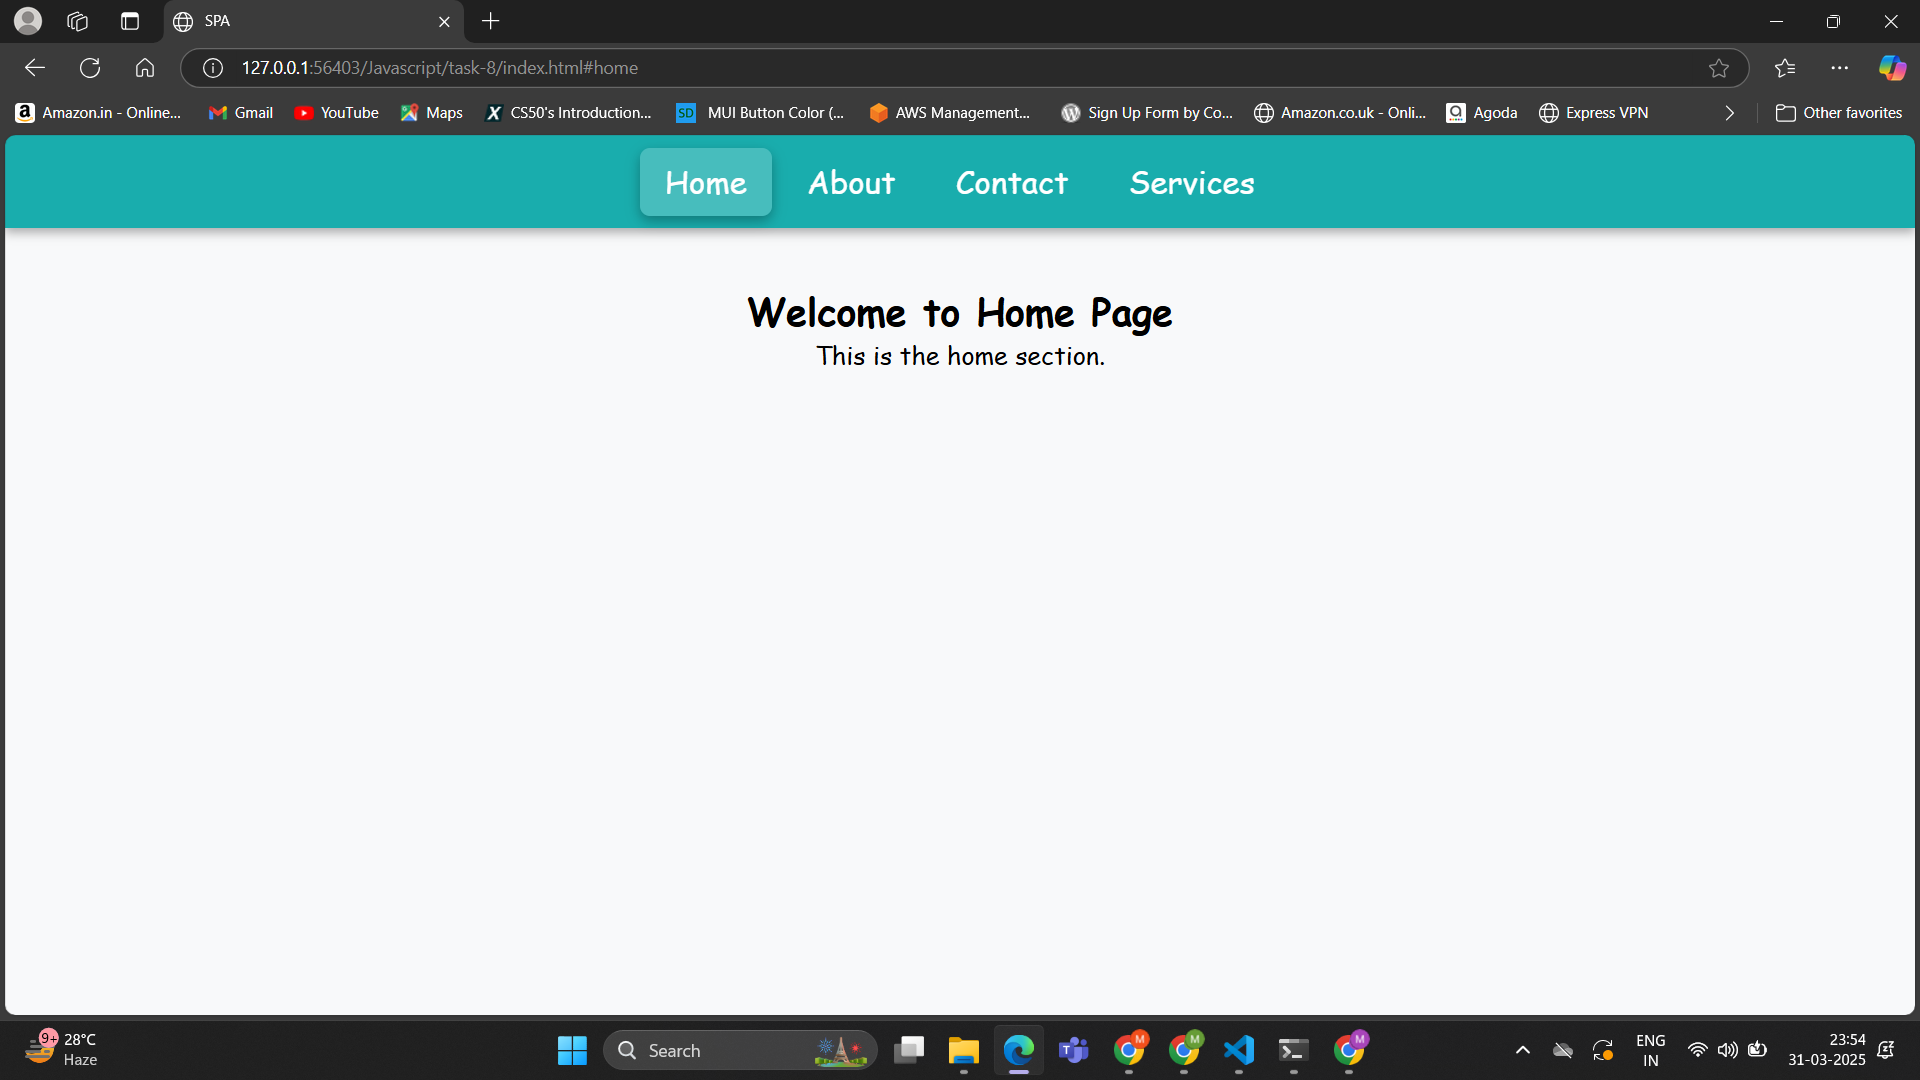
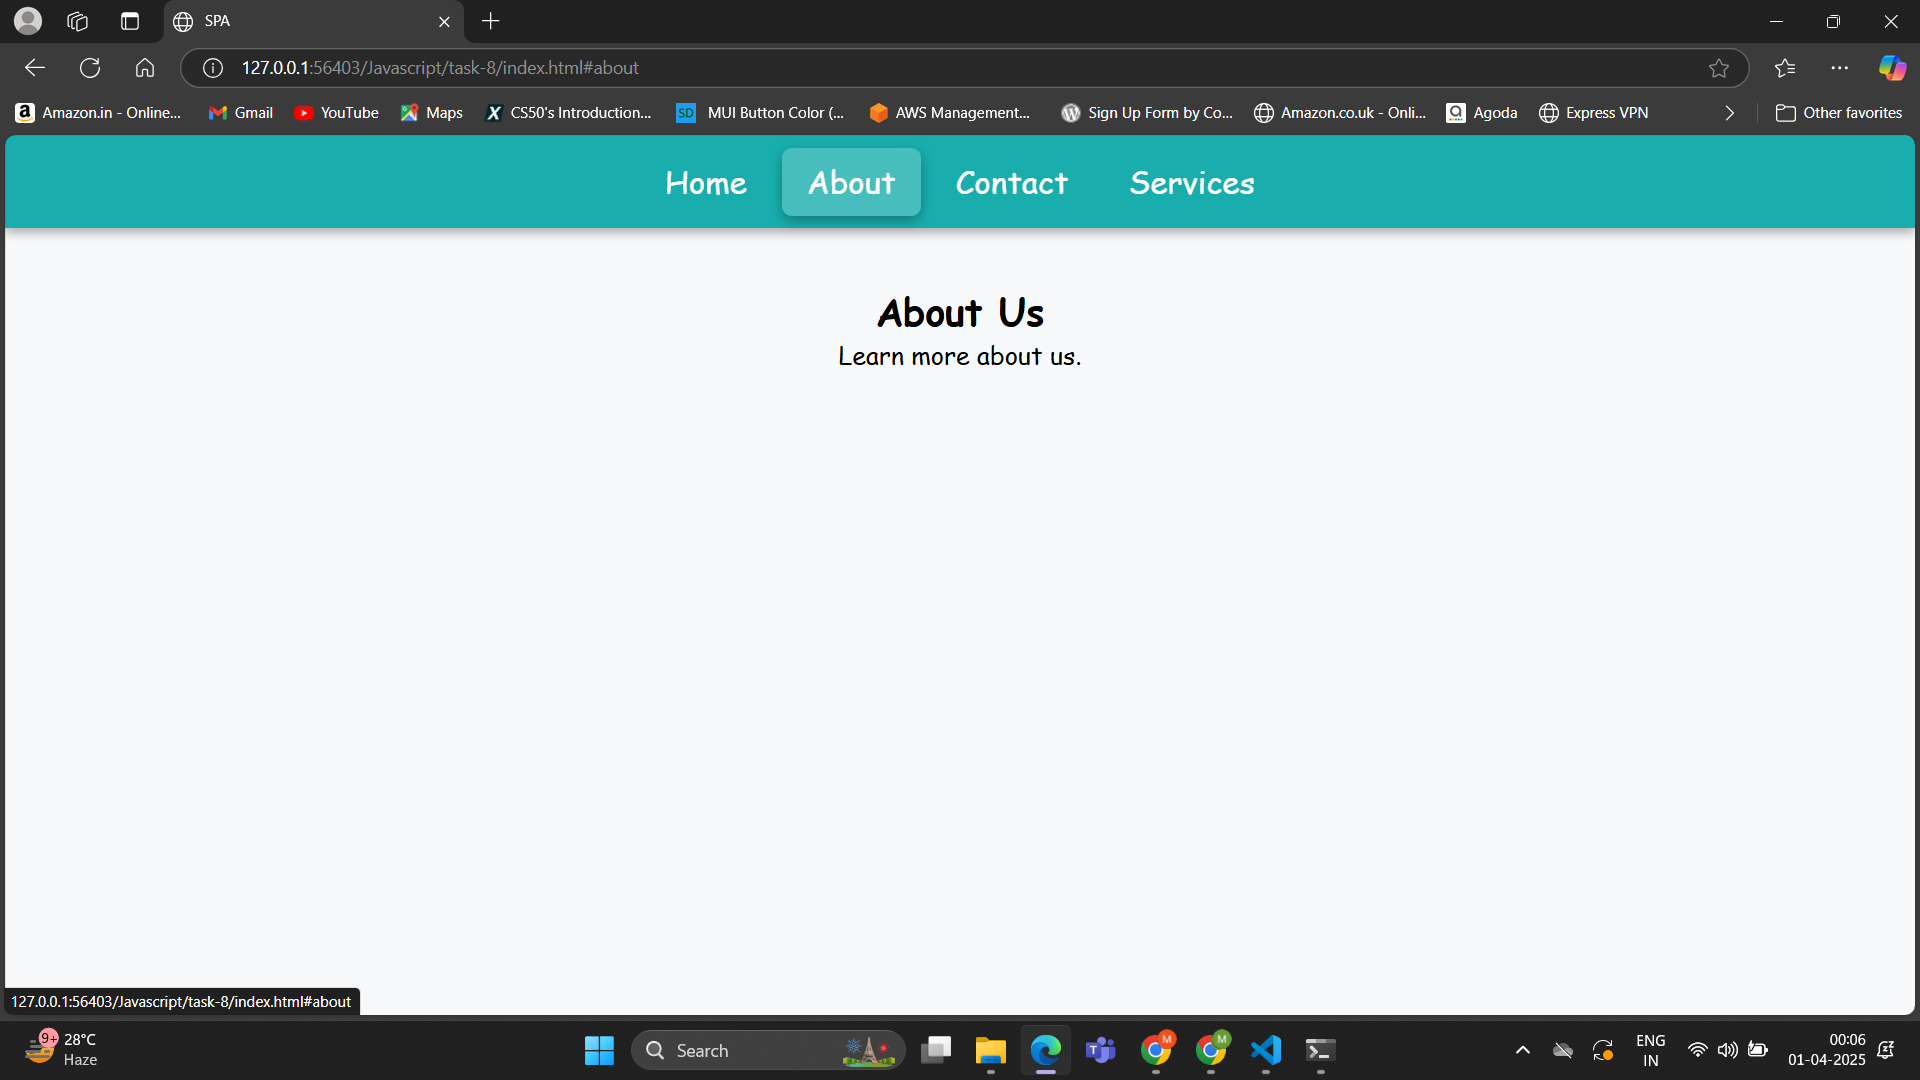
Add README for task-8

diff --git a/task-8/README.md b/task-8/README.md
@@ -1,0 +1,35 @@
+# Task 8 **Single-Page Application (SPA) with Hash-based Routing**
+
+## **Objective:** 
+- Build a basic SPA that navigates between different views without reloading the page.
+    
+## **Requirements:**
+- Implement hash-based routing by listening to the `window.onhashchange` event.
+- Dynamically load different content sections based on the current URL hash.
+- Maintain a consistent UI and state across route changes.
+
+## **Implementation:**
+
+- The navigation menu contains links like `<a href="#home">Home</a>` that change the URL hash when clicked.
+- A JavaScript object, routes, stores the HTML content for different sections.
+- The `loadContent()` function reads the hash from the URL and updates the #content div dynamically.
+- The `window.onhashchange` event detects hash changes and calls loadContent() to update the content.
+- The active navigation link is updated by adding/removing an `.active` class based on the current hash.
+
+## **Outputs:**
+
+#### Home
+
+![Tab](./outputs/home.png)
+
+#### About
+
+![Tab](./outputs/about.png)
+
+#### Contact
+
+![Tab](./outputs/contact.png)
+
+#### Services
+
+![Tab](./outputs/services.png)
